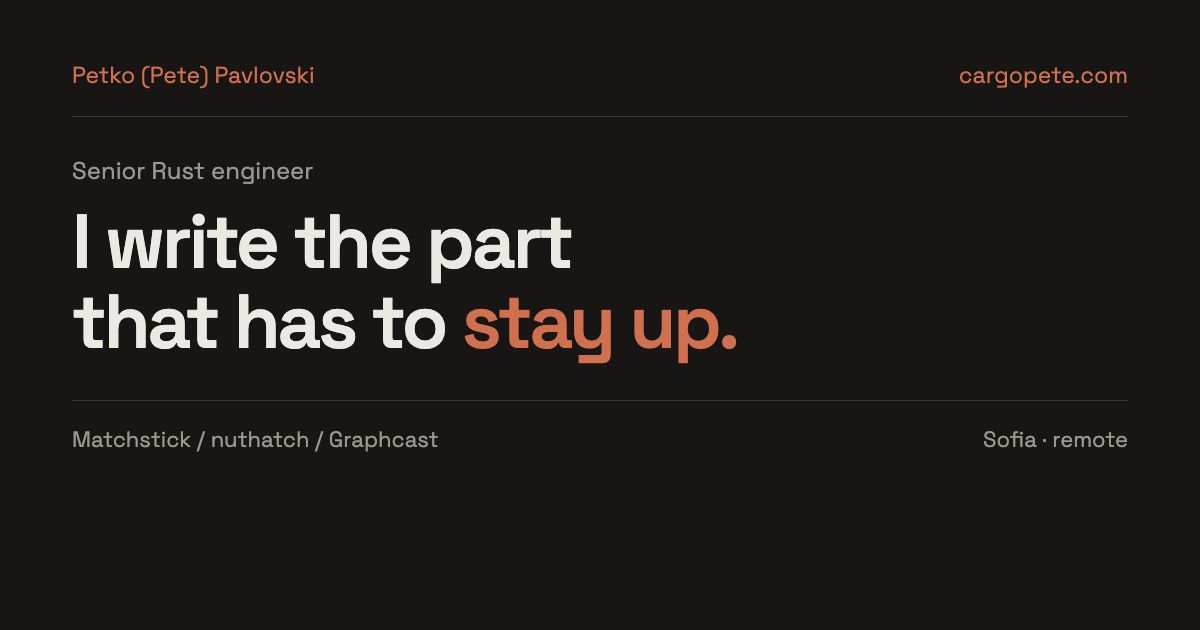
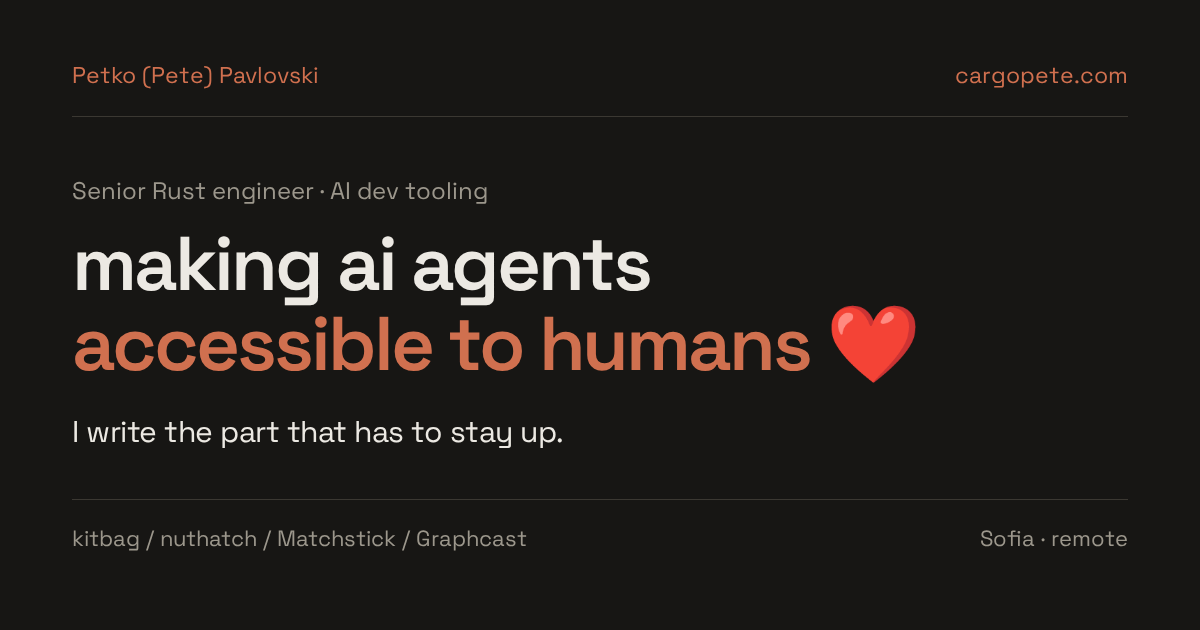
Lead with kitbag and the AI dev-tooling tagline (#6)
Hero now leads with "making ai agents accessible to humans", keeping
"I write the part that has to stay up" as the supporting line. kitbag
becomes the first selected-work case study with its install command,
nuthatch moves to second. Meta, schema.org knowsAbout, social card,
package description, profile README and the CV PDF follow.

diff --git a/src/data/portfolio.ts b/src/data/portfolio.ts
@@ -1,7 +1,8 @@
 export const portfolio = {
-  role: 'Senior Rust engineer',
+  role: 'Senior Rust engineer · AI dev tooling',
+  tagline: 'making ai agents accessible to humans ❤',
   headline: 'I write the part that has to stay up.',
-  summary: 'I created Matchstick, The Graph’s subgraph testing framework. I build Rust backends, indexers and P2P protocols. Production software since 2019. Rust since 2021.',
+  summary: 'I build kitbag, a Rust CLI that carries AI agent setups between coding tools, and nuthatch, an open-source Rust EVM indexer. I created Matchstick, The Graph’s subgraph testing framework. Production software since 2019. Rust since 2021.',
   current: 'At Fathom, I build Rust services for an AI data platform.',
   // The hero's stat panel. Each case study's result carries a different figure, so none repeats.
   figures: [
@@ -9,19 +10,19 @@ export const portfolio = {
     { name: 'nuthatch', figure: '136', text: 'releases, from v0.0.1 on 14 Jul 2026 to v5.23.0 on 18 Nov 2026' },
     { name: 'Graphcast', figure: '53,119', text: 'crates.io downloads of graphcast-sdk, as of Nov 2026' },
   ],
-  contact: 'For Rust backend, distributed systems or developer tooling work, send me the problem, the team and the constraints.',
+  contact: 'For AI dev tooling, Rust backend or distributed systems work, send me the problem, the team and the constraints.',
   selected: [
     {
-      id: 'matchstick', name: 'Matchstick', label: 'Testing infrastructure',
-      context: 'The Graph · LimeChain · 2021',
-      title: 'Test a subgraph before it meets the chain.',
-      problem: 'Subgraph mappings need tests for event handlers and the entities they write.',
-      contribution: 'Created a testing framework in Rust and WebAssembly at LimeChain, on a Graph Foundation grant.',
-      result: 'The Graph documents Matchstick as its subgraph unit testing framework. Developers run it through graph test. The matchstick-as package had 85,536 npm downloads in the 30 days to 19 November 2026, and LimeChain/matchstick has 217 GitHub stars.',
-      tags: ['Rust', 'WebAssembly', 'Developer tooling'],
+      id: 'kitbag', name: 'kitbag', label: 'AI dev tooling',
+      context: 'Independent open source · 2026',
+      title: 'One agent setup, every coding tool.',
+      problem: 'Every AI coding tool starts empty. MCP servers, rules and skills get re-added by hand in each one, in its own format, with API keys pasted into yet another config file.',
+      contribution: 'Built a Rust CLI that captures an agent setup into a small, git-friendly profile and applies it to Claude Code, Cursor, Codex, Gemini CLI and Claude Desktop, in each tool’s native format.',
+      result: 'Secrets are redacted to environment variable references on capture. Every apply shows its plan, backs up each file it touches and can be reverted with kitbag undo. A single static binary for macOS, Linux and Windows, MIT licensed, in early release.',
+      install: 'curl -fsSL https://raw.githubusercontent.com/cargopete/kitbag/main/install.sh | sh',
+      tags: ['Rust', 'CLI', 'MCP', 'AI agents'],
       links: [
-        { label: 'Official Graph documentation', href: 'https://thegraph.com/docs/en/subgraphs/tooling/unit-testing-framework/' },
-        { label: 'Source', href: 'https://github.com/LimeChain/matchstick' },
+        { label: 'Source & documentation', href: 'https://github.com/cargopete/kitbag' },
       ],
     },
     {
@@ -35,6 +36,19 @@ export const portfolio = {
       links: [
         { label: 'Project & documentation', href: 'https://nuthatch-indexer.com' },
         { label: 'Source', href: 'https://github.com/nuthatch-org/nuthatch' },
+      ],
+    },
+    {
+      id: 'matchstick', name: 'Matchstick', label: 'Testing infrastructure',
+      context: 'The Graph · LimeChain · 2021',
+      title: 'Test a subgraph before it meets the chain.',
+      problem: 'Subgraph mappings need tests for event handlers and the entities they write.',
+      contribution: 'Created a testing framework in Rust and WebAssembly at LimeChain, on a Graph Foundation grant.',
+      result: 'The Graph documents Matchstick as its subgraph unit testing framework. Developers run it through graph test. The matchstick-as package had 85,536 npm downloads in the 30 days to 19 November 2026, and LimeChain/matchstick has 217 GitHub stars.',
+      tags: ['Rust', 'WebAssembly', 'Developer tooling'],
+      links: [
+        { label: 'Official Graph documentation', href: 'https://thegraph.com/docs/en/subgraphs/tooling/unit-testing-framework/' },
+        { label: 'Source', href: 'https://github.com/LimeChain/matchstick' },
       ],
     },
     {

diff --git a/src/data/resume.ts b/src/data/resume.ts
@@ -22,7 +22,7 @@ export interface Project {
 
 export const resume = {
   name: 'Petko (Pete) Pavlovski',
-  tagline: ['Senior Rust engineer', 'indexers, languages, P2P protocols, and the tooling around them.'],
+  tagline: ['Senior Rust engineer', 'AI dev tooling, indexers, P2P protocols, and the tooling around them.'],
   intro: 'I write the part that has to stay up.',
   tenure: 'Shipping production software since 2019. Building in Rust since 2021.',
   accountant: 'Accountant before that, which is where the habit of checking the number twice comes from.',
@@ -40,7 +40,7 @@ export const resume = {
   page: {
     title: 'CV - Petko (Pete) Pavlovski',
     description:
-      "Senior Rust engineer at Fathom. Production software since 2019, Rust since 2021. Previously The Graph, Kraken and OVO Energy.",
+      "Senior Rust engineer at Fathom, building kitbag and nuthatch. Production software since 2019, Rust since 2021. Previously The Graph, Kraken and OVO Energy.",
     headline: 'Senior Rust engineer.',
   },
 
@@ -127,6 +127,11 @@ export const resume = {
     heading: 'Building now, and shipped and still running.',
     building: [
       {
+        names: ['kitbag'],
+        text: 'a Rust CLI that carries AI agent setups (MCP servers, rules, skills) between Claude Code, Cursor, Codex, Gemini CLI and Claude Desktop. Secrets become env refs; every apply is undoable.',
+        meta: 'github.com/cargopete/kitbag',
+      },
+      {
         names: ['nuthatch'],
         text: 'a self-hosted blockchain indexer in Rust. Follows the chain, seals history into Parquet and serves SQL and MCP.',
         meta: 'nuthatch-indexer.com',
@@ -167,11 +172,12 @@ export const resume = {
     // The page links "LinkedIn" between these two halves.
     lede: [
       'If you want to talk, reach me on',
-      'or by email. My focus is Rust backend engineering, distributed systems and developer tooling.',
+      'or by email. My focus is AI and developer tooling, Rust backend engineering and distributed systems.',
     ],
     inLabel: 'In scope',
     outLabel: 'Working preferences',
     in: [
+      'AI dev tooling: agent setups, MCP and the CLIs around them',
       'Rust backends, services and CLIs',
       'Distributed systems and P2P protocol work',
       'Blockchain indexing and data infrastructure',
@@ -190,7 +196,7 @@ export const resume = {
   close: {
     kicker: 'Contact',
     heading: 'Mail is the fastest way.',
-    lede: 'For Rust backend, distributed systems or developer tooling work, send me the problem, the team and the constraints.',
+    lede: 'For AI dev tooling, Rust backend or distributed systems work, send me the problem, the team and the constraints.',
   },
 
   pdf: {

diff --git a/src/styles/global.css b/src/styles/global.css
@@ -375,7 +375,12 @@ section[id], article[id] { scroll-margin-top: 140px; }
 .hero-role { color: var(--text-muted); font-size: 1rem; margin-bottom: 18px; }
 .portfolio-title { line-height: 1.06; letter-spacing: -0.055em; }
 .portfolio-title span { color: var(--accent); }
-.portfolio-intro { max-width: 45ch; font-size: 1rem; color: var(--text-muted); margin: 26px 0; }
+.portfolio-intro { max-width: 45ch; font-size: 1rem; color: var(--text-muted); margin: 0 0 26px; }
+.portfolio-headline { font-family: var(--font-display); font-size: 1.25rem; line-height: 1.3; letter-spacing: -0.02em; color: var(--text); margin: 26px 0 14px; }
+.portfolio-title .heart { color: var(--accent); white-space: nowrap; }
+.install { margin-top: 24px; }
+.install-label { font: 0.625rem var(--font-mono); color: var(--accent); text-transform: uppercase; letter-spacing: 0.06em; margin-bottom: 6px; }
+.install-cmd { margin: 0; padding: 12px 14px; background: var(--bg-inset); border: 1px solid var(--border); border-radius: var(--radius-sm); font-size: 0.722rem; line-height: 1.6; color: var(--text); white-space: pre-wrap; overflow-wrap: anywhere; }
 .hero-stats { grid-template-columns: 1fr; }
 .selected-work { padding-bottom: 0; }
 .selected-work .section-head { max-width: 780px; }

diff --git a/README.md b/README.md
@@ -1,8 +1,10 @@
 # Petko (Pete) Pavlovski
 
-Senior Rust engineer · Sofia, Bulgaria · remote since 2019.
+Senior Rust engineer · AI dev tooling · Sofia, Bulgaria · remote since 2019.
 
-I write the part that has to stay up. I created Matchstick, The Graph’s subgraph testing framework. I build Rust backends, indexers and P2P protocols. Production software since 2019. Rust since 2021.
+**making ai agents accessible to humans ❤**
+
+I write the part that has to stay up. I build kitbag, a Rust CLI that carries AI agent setups between coding tools, and nuthatch, an open-source Rust EVM indexer. I created Matchstick, The Graph’s subgraph testing framework. Production software since 2019. Rust since 2021.
 
 [Portfolio](https://www.cargopete.com/) · [CV](https://www.cargopete.com/resume/) · [Download PDF](https://www.cargopete.com/resume/petko-pavlovski-resume.pdf) · [LinkedIn](https://www.linkedin.com/in/pete-pavlovski-07486a156/) · [pavlovskipetko@gmail.com](mailto:pavlovskipetko@gmail.com)
 
@@ -12,17 +14,27 @@ At Fathom, I build Rust services for an AI data platform.
 
 ## Selected work
 
-### Matchstick | Testing infrastructure
+### kitbag | AI dev tooling
 
-Created a testing framework in Rust and WebAssembly at LimeChain, on a Graph Foundation grant. The Graph documents Matchstick as its subgraph unit testing framework. Developers run it through graph test. The matchstick-as package had 85,536 npm downloads in the 30 days to 19 November 2026, and LimeChain/matchstick has 217 GitHub stars.
+Built a Rust CLI that captures an agent setup into a small, git-friendly profile and applies it to Claude Code, Cursor, Codex, Gemini CLI and Claude Desktop, in each tool’s native format. Secrets are redacted to environment variable references on capture. Every apply shows its plan, backs up each file it touches and can be reverted with kitbag undo. A single static binary for macOS, Linux and Windows, MIT licensed, in early release.
 
-[Official Graph documentation](https://thegraph.com/docs/en/subgraphs/tooling/unit-testing-framework/) · [Source](https://github.com/LimeChain/matchstick)
+```sh
+curl -fsSL https://raw.githubusercontent.com/cargopete/kitbag/main/install.sh | sh
+```
+
+[Source & documentation](https://github.com/cargopete/kitbag)
 
 ### nuthatch | Data infrastructure
 
 Built a Rust indexer that follows the chain, seals data into Parquet and serves queries through SQL and MCP. A self-hosted indexing system, with its runtime, storage and query interfaces available as public source. It is the data source behind lodestar-dashboard.com.
 
 [Project & documentation](https://nuthatch-indexer.com) · [Source](https://github.com/nuthatch-org/nuthatch)
+
+### Matchstick | Testing infrastructure
+
+Created a testing framework in Rust and WebAssembly at LimeChain, on a Graph Foundation grant. The Graph documents Matchstick as its subgraph unit testing framework. Developers run it through graph test. The matchstick-as package had 85,536 npm downloads in the 30 days to 19 November 2026, and LimeChain/matchstick has 217 GitHub stars.
+
+[Official Graph documentation](https://thegraph.com/docs/en/subgraphs/tooling/unit-testing-framework/) · [Source](https://github.com/LimeChain/matchstick)
 
 ### Graphcast | Distributed systems
 
@@ -53,7 +65,7 @@ Accountant before that, which is where the habit of checking the number twice co
 
 ## Get in touch
 
-For Rust backend, distributed systems or developer tooling work, send me the problem, the team and the constraints. Remote from Sofia, with European working hours and some US overlap.
+For AI dev tooling, Rust backend or distributed systems work, send me the problem, the team and the constraints. Remote from Sofia, with European working hours and some US overlap.
 
 [pavlovskipetko@gmail.com](mailto:pavlovskipetko@gmail.com) · [Full experience & CV](https://www.cargopete.com/resume/)
 
